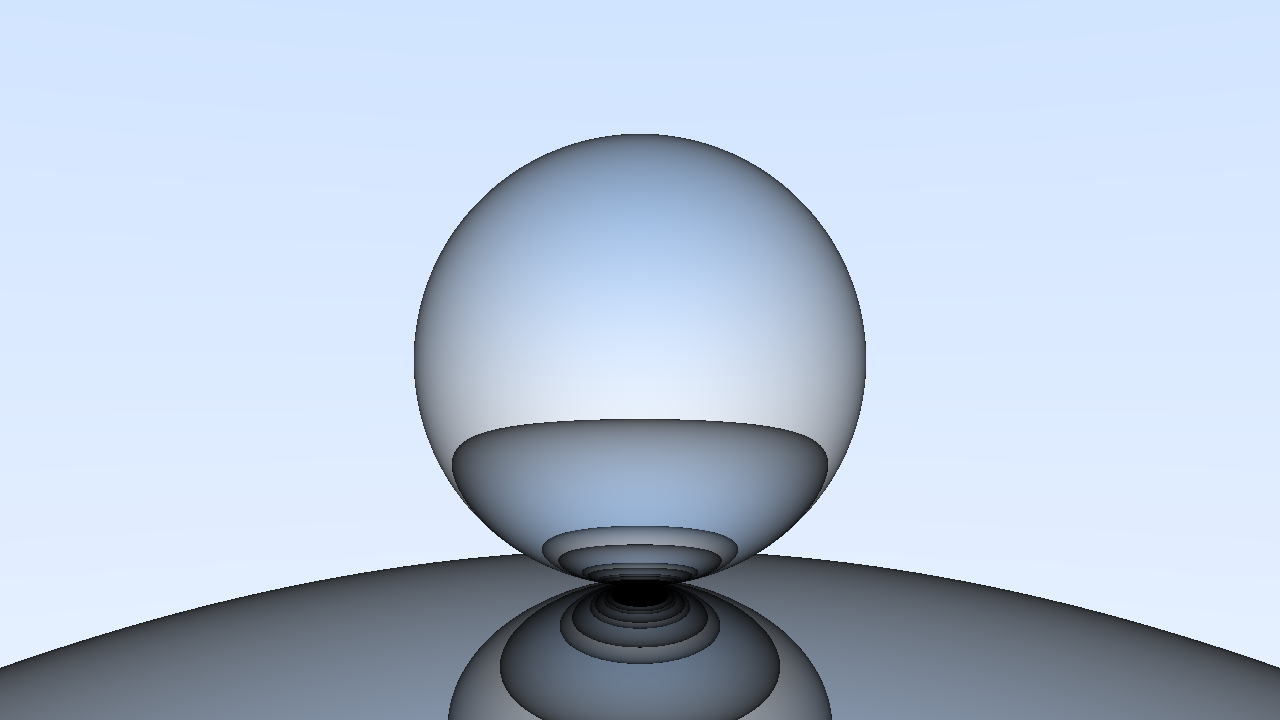
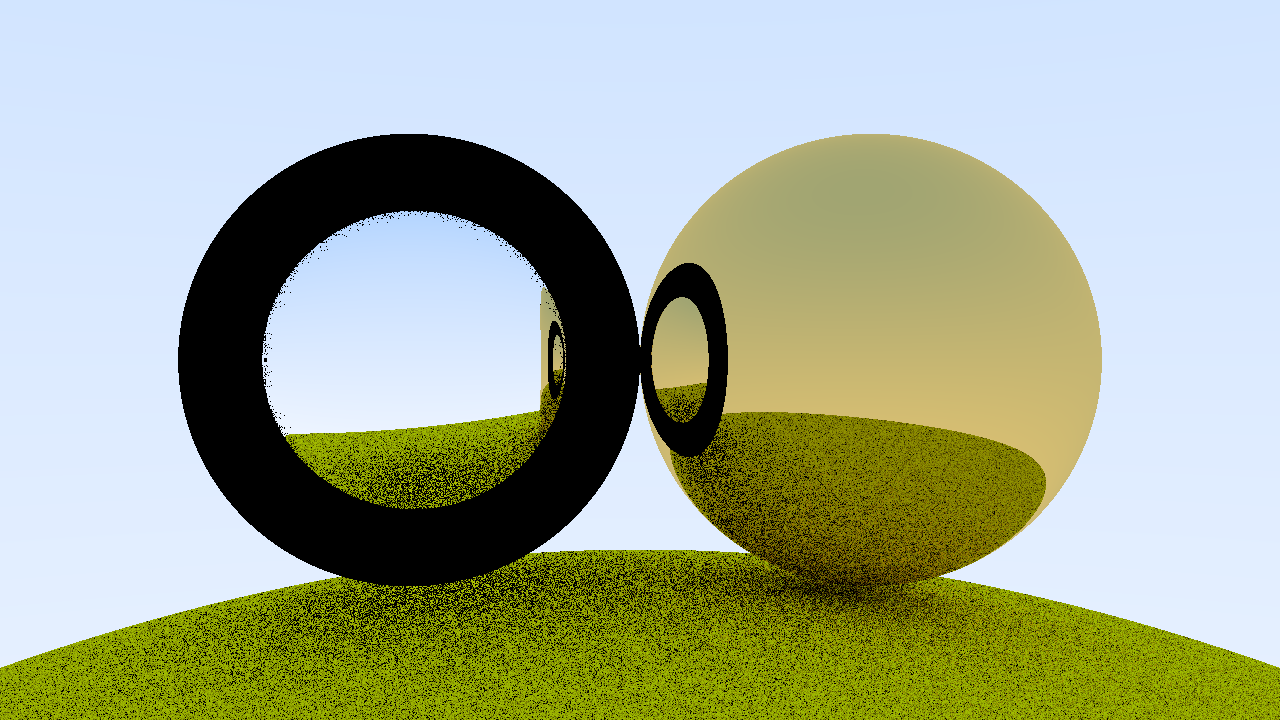
第一次提交

diff --git a/model.go b/model.go
@@ -22,8 +22,8 @@ type Sphere struct {
 	Material IMaterial
 }
 
-func NewSphere(center mgl32.Vec3, radius float32) *Sphere {
-	return &Sphere{Center: center, Radius: radius}
+func NewSphere(center mgl32.Vec3, radius float32, material IMaterial) *Sphere {
+	return &Sphere{Center: center, Radius: radius, Material: material}
 }
 
 func (s *Sphere) Hit(ray *Ray) *HitDetail {
@@ -68,7 +68,7 @@ func NewHitList() *HitList {
 }
 
 func (h *HitList) Hit(ray *Ray) *HitDetail {
-	for _, hit := range h.Hits {
+	for _, hit := range h.Hits { // TODO 因该找最近的，而不是第一个
 		if res := hit.Hit(ray); res != nil {
 			return res
 		}
@@ -97,6 +97,13 @@ func (r *Ray) Reflect(point mgl32.Vec3, normal mgl32.Vec3) *Ray {
 	return NewRay(point, dir)
 }
 
+func (r *Ray) Refract(point mgl32.Vec3, normal mgl32.Vec3, refract float32) *Ray {
+	cos := -normal.Dot(r.Dir)
+	k := 1 - refract*refract*(1-cos*cos)
+	dir := r.Dir.Mul(refract).Add(normal.Mul(refract*cos - Sqrt(k))).Normalize()
+	return NewRay(point, dir)
+}
+
 type ScatterDetail struct {
 	Ray   *Ray
 	Color mgl32.Vec3
@@ -111,11 +118,17 @@ type Lambert struct {
 }
 
 func (l *Lambert) Scatter(ray *Ray, detail *HitDetail) *ScatterDetail {
-	dir := detail.Normal.Add(RandVec()).Normalize() // 随机散射与法线加权
+	dir := detail.Normal.Add(RandVec()) // 随机散射与法线加权
+	if dir.LenSqr() < MinOff {          // 太小了
+		dir = detail.Normal
+	} else {
+		dir = dir.Normalize()
+	}
 	ray = NewRay(detail.Point, dir)
+	scale := max(dir.Dot(detail.Normal), 0)
 	return &ScatterDetail{
 		Ray:   ray,
-		Color: l.Albedo,
+		Color: l.Albedo.Mul(scale),
 	}
 }
 
@@ -125,16 +138,40 @@ func NewLambert(albedo mgl32.Vec3) *Lambert {
 
 type Metal struct {
 	Albedo mgl32.Vec3
+	Fuzz   float32
 }
 
-func NewMetal(albedo mgl32.Vec3) *Metal {
-	return &Metal{Albedo: albedo}
+func NewMetal(albedo mgl32.Vec3, fuzz float32) *Metal {
+	return &Metal{Albedo: albedo, Fuzz: fuzz}
 }
 
 func (m *Metal) Scatter(ray *Ray, detail *HitDetail) *ScatterDetail {
 	ray = ray.Reflect(detail.Point, detail.Normal)
+	if m.Fuzz > 0 {
+		ray.Dir = ray.Dir.Add(RandVec().Mul(m.Fuzz)).Normalize()
+	}
 	return &ScatterDetail{
 		Ray:   ray,
 		Color: m.Albedo,
 	}
+}
+
+type Dielectric struct {
+	Refract float32 // 折射率
+}
+
+func (d *Dielectric) Scatter(ray *Ray, detail *HitDetail) *ScatterDetail {
+	refract := 1 / d.Refract
+	if detail.Outside {
+		refract = d.Refract
+	}
+	ray = ray.Refract(detail.Point, detail.Normal, refract)
+	return &ScatterDetail{
+		Ray:   ray,
+		Color: mgl32.Vec3{1, 1, 1},
+	}
+}
+
+func NewDielectric(refract float32) *Dielectric {
+	return &Dielectric{Refract: refract}
 }

diff --git a/book.go b/book.go
@@ -22,8 +22,9 @@ func TestBook() {
 	l := w / 2 / Tan(angle)
 	center := mgl32.Vec3{} // 相机位置
 	// 世界设置
-	world.Add(NewSphere(mgl32.Vec3{0, 0, 1000}, 200))
-	world.Add(NewSphere(mgl32.Vec3{0, 2200, 1000}, 2000))
+	world.Add(NewSphere(mgl32.Vec3{-200, 0, 1000}, 200, NewDielectric(1.5)))
+	world.Add(NewSphere(mgl32.Vec3{200, 0, 1000}, 200, NewMetal(mgl32.Vec3{0.8, 0.6, 0.2}, 0)))
+	world.Add(NewSphere(mgl32.Vec3{0, 2200, 1000}, 2000, NewLambert(mgl32.Vec3{0.8, 0.8, 0})))
 	// 进行渲染
 	img := image.NewRGBA(image.Rect(0, 0, int(w), int(h)))
 	for y := 0; y < int(h); y++ {

diff --git a/utils.go b/utils.go
@@ -72,3 +72,15 @@ func RandVec() mgl32.Vec3 {
 	}
 	return res.Normalize()
 }
+
+func RandVecWithNormal(normal mgl32.Vec3) mgl32.Vec3 {
+	res := mgl32.Vec3{
+		float32(rand.NormFloat64()),
+		float32(rand.NormFloat64()),
+		float32(rand.NormFloat64()),
+	}
+	if normal.Dot(res) < 0 { // 调整为与 normal 同向
+		res = res.Mul(-1)
+	}
+	return res.Normalize()
+}
